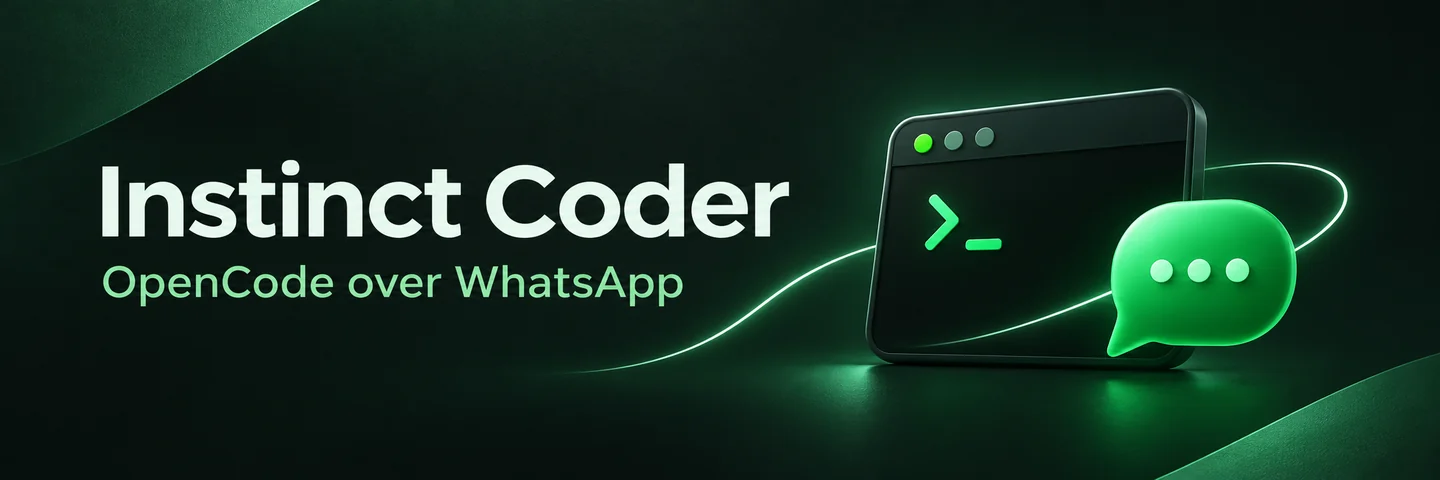
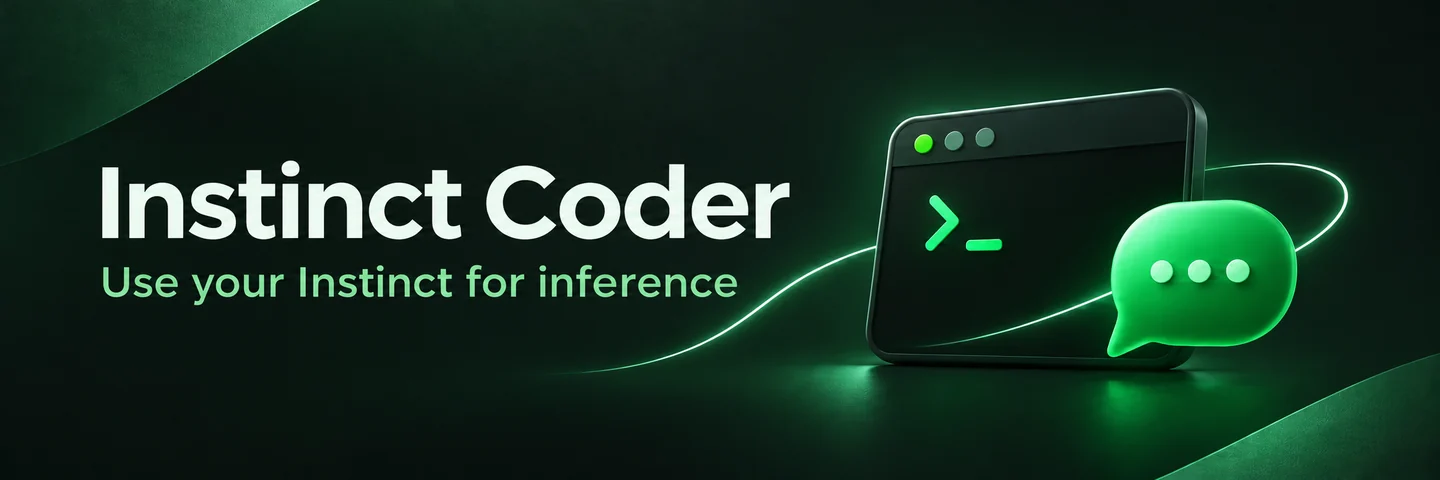
Fit Claude Code instruction files within the WhatsApp budget

diff --git a/src/anthropic.js b/src/anthropic.js
@@ -1,7 +1,25 @@
-import { model } from './protocol.js';
+import { BridgeError, model, prepareTurn } from './protocol.js';
 import { conversation, functionTool, identifier, invalid, openStream, sendJSON, sse, textBlocks, toolCall } from './wire.js';
 
-function messages(input) {
+const instructionReadLines = 48;
+
+function instructionReferences(text, deferred) {
+  if (!deferred || text.length <= deferred.maxChars / 4 ||
+      !text.startsWith('<system-reminder>\nCodebase and user instructions are shown below.') ||
+      !text.trimEnd().endsWith('</system-reminder>')) return text;
+
+  const paths = [...text.matchAll(/^Contents of (\/[\S ]+?|[A-Za-z]:[\\/][\S ]+?) \([^\r\n]+\):$/gm)]
+    .map(([, path]) => path);
+  if (!paths.length) return text;
+  for (const path of paths) deferred.files.add(path);
+  return [
+    'Project and user instruction files supplied by Claude Code:',
+    ...new Set(paths),
+    `Before doing project work, consult the applicable files using the local Read tool in small sections, up to ${instructionReadLines} lines per call. Follow those instructions.`,
+  ].join('\n');
+}
+
+function messages(input, deferred) {
   if (input?.role === 'system') return [{ role: 'system', content: textBlocks(input.content, ['text']) }];
   if (!input || !['user', 'assistant'].includes(input.role)) invalid('Expected a user or assistant message.');
   if (typeof input.content === 'string') return [{ role: input.role, content: input.content }];
@@ -10,10 +28,12 @@ function messages(input) {
   let current = { role: input.role };
   for (const block of input.content) {
     switch (block?.type) {
-      case 'text':
+      case 'text': {
         if (typeof block.text !== 'string') invalid('Expected a text block.');
-        current.content = current.content === undefined ? block.text : `${current.content}\n${block.text}`;
+        const text = input.role === 'user' ? instructionReferences(block.text, deferred) : block.text;
+        current.content = current.content === undefined ? text : `${current.content}\n${text}`;
         break;
+      }
       case 'tool_use': {
         if (input.role !== 'assistant') invalid('Tool calls belong to assistant messages.');
         current.tool_calls ??= [];
@@ -38,12 +58,12 @@ function messages(input) {
   return result;
 }
 
-function prepare(body) {
+function prepare(body, deferred) {
   const request = conversation(body);
   if (!Array.isArray(body.messages)) invalid('messages must be an array.');
   if (body.output_config?.format || body.output_format) invalid('Only plain text responses are supported.');
   if (body.system) request.messages.push({ role: 'system', content: textBlocks(body.system, ['text']) });
-  request.messages.push(...body.messages.flatMap(messages));
+  request.messages.push(...body.messages.flatMap((message) => messages(message, deferred)));
   if (body.tools !== undefined && !Array.isArray(body.tools)) invalid('tools must be an array.');
   request.tools = (body.tools ?? []).filter((tool) => tool?.input_schema).map((tool) =>
     functionTool(tool.name, tool.description, tool.input_schema));
@@ -73,8 +93,21 @@ function tokens(value) {
 }
 
 export const anthropicMessages = {
-  request: prepare,
-  open(response, body) {
+  prepareTurn(body, maxChars) {
+    const request = prepare(body);
+    try {
+      return prepareTurn(request, maxChars);
+    } catch (error) {
+      const choice = request.tool_choice;
+      const canRead = choice !== 'none' && (typeof choice !== 'object' || choice.function.name === 'Read')
+        && request.tools.some((tool) => tool.function.name === 'Read');
+      if (!(error instanceof BridgeError) || error.code !== 'prompt_too_large' || !canRead) throw error;
+      const deferred = { maxChars, files: new Set() };
+      const turn = prepareTurn(prepare(body, deferred), maxChars);
+      return { ...turn, instructionFiles: deferred.files };
+    }
+  },
+  open(response, body, turn) {
     const initial = {
       id: identifier('msg'), type: 'message', role: 'assistant', model,
       content: [], stop_reason: null, stop_sequence: null,
@@ -87,9 +120,13 @@ export const anthropicMessages = {
       emit('message_start', { message: initial });
     }
     const complete = ({ content, tool_calls }) => {
-      const blocks = tool_calls ? tool_calls.map((call) => ({
-        type: 'tool_use', id: call.id, name: call.function.name, input: JSON.parse(call.function.arguments),
-      })) : [{ type: 'text', text: content }];
+      const blocks = tool_calls ? tool_calls.map((call) => {
+        const { name } = call.function;
+        const input = JSON.parse(call.function.arguments);
+        if (name === 'Read' && turn.instructionFiles?.has(input.file_path) &&
+            (input.limit === undefined || input.limit > instructionReadLines)) input.limit = instructionReadLines;
+        return { type: 'tool_use', id: call.id, name, input };
+      }) : [{ type: 'text', text: content }];
       const stop_reason = tool_calls ? 'tool_use' : 'end_turn';
       if (!streaming) {
         return sendJSON(response, 200, { ...initial, content: blocks, stop_reason });

diff --git a/test/gateway.test.js b/test/gateway.test.js
@@ -166,3 +166,40 @@ test('retries a wacli lock before send dispatch and reports streamed provider fa
   assert.equal(events.at(-1).type, 'response.failed');
   assert.equal(events.at(-1).response.error.code, 'invalid_whatsapp_reply');
 });
+
+test('oversized Claude Code instruction reminders become file references without dropping the user message', async (t) => {
+  const { request } = await testGateway(t);
+  const reminder = [
+    '<system-reminder>',
+    'Codebase and user instructions are shown below. Be sure to adhere to these instructions.',
+    '',
+    'Contents of /project with spaces/CLAUDE.md (project instructions, checked into the codebase):',
+    'oversized instruction text\n'.repeat(200),
+    '</system-reminder>',
+  ].join('\n');
+  const body = { messages: [user([
+    { type: 'text', text: reminder },
+    { type: 'text', text: 'INSTRUCTION_BUDGET_FIXTURE. Keep this original user message.' },
+  ])] };
+  const read = { name: 'Read', input_schema: { type: 'object' } };
+  const answer = await request('messages', { ...body, tools: [read] });
+  assert.equal(answer.status, 200);
+  assert.equal((await answer.json()).content[0].text, 'Hello through the bridge.');
+
+  const readAnswer = await request('messages', { tools: [read], messages: [user([
+    { type: 'text', text: reminder },
+    { type: 'text', text: 'READ_INSTRUCTION_BUDGET_FIXTURE. Keep this original user message.' },
+  ])] });
+  assert.equal(readAnswer.status, 200);
+  assert.deepEqual((await readAnswer.json()).content[0].input, {
+    file_path: '/project with spaces/CLAUDE.md', limit: 48,
+  });
+
+  const withoutRead = await request('messages', body);
+  assert.equal(withoutRead.status, 400);
+  assert.match((await withoutRead.json()).error.message, /WhatsApp prompt has/);
+
+  const oversizedUser = await request('messages', { messages: [user('ordinary user text '.repeat(200))], tools: [read] });
+  assert.equal(oversizedUser.status, 400);
+  assert.match((await oversizedUser.json()).error.message, /WhatsApp prompt has/);
+});

diff --git a/src/server.js b/src/server.js
@@ -1,7 +1,7 @@
 import { timingSafeEqual } from 'node:crypto';
 import { createServer } from 'node:http';
 import { pathToFileURL } from 'node:url';
-import { BridgeError, model, prepareTurn } from './protocol.js';
+import { BridgeError, model } from './protocol.js';
 import { whatsappTransport } from './wacli.js';
 
 import { anthropicMessages } from './anthropic.js';
@@ -95,10 +95,10 @@ export function createGateway({ key, maxChars, timeoutMs, complete }) {
         sendJSON(response, 200, anthropicMessages.count(body));
         return;
       }
-      const turn = prepareTurn(adapter.request(body), maxChars);
+      const turn = adapter.prepareTurn(body, maxChars);
       if (queued >= 4) throw new BridgeError(429, 'bridge_busy', 'The WhatsApp queue is full. Try again when it has drained.');
       const signal = AbortSignal.any([AbortSignal.timeout(timeoutMs), disconnect.signal]);
-      exchange = adapter.open(response, body);
+      exchange = adapter.open(response, body, turn);
       if (body.stream === true) heartbeat = setInterval(() => response.write(': waiting for WhatsApp\n\n'), 10_000);
 
       const result = await enqueue(turn, signal);

diff --git a/src/responses.js b/src/responses.js
@@ -1,4 +1,4 @@
-import { BridgeError, model } from './protocol.js';
+import { BridgeError, model, prepareTurn } from './protocol.js';
 import { chatCompletions, conversation, functionTool, identifier, invalid, openStream, sendJSON, sse, textBlocks, timestamp, toolCall } from './wire.js';
 
 const textTypes = ['input_text', 'output_text', 'text'];
@@ -90,7 +90,7 @@ function emitItem(emit, item, output_index) {
 }
 
 export const responses = {
-  request: prepare,
+  prepareTurn: (body, maxChars) => prepareTurn(prepare(body), maxChars),
   open(response, body) {
     const custom = new Set((body.tools ?? []).filter((tool) => tool?.type === 'custom').map((tool) => tool.name));
     const initial = {

diff --git a/src/cli.js b/src/cli.js
@@ -153,6 +153,9 @@ async function clientCommand(client, args, baseURL, key) {
       ANTHROPIC_DEFAULT_SONNET_MODEL: model,
       ANTHROPIC_DEFAULT_OPUS_MODEL: model,
       CLAUDE_CODE_DISABLE_NONESSENTIAL_TRAFFIC: '1',
+      CLAUDE_CODE_MAX_CONTEXT_TOKENS: env.CLAUDE_CODE_MAX_CONTEXT_TOKENS || '10000',
+      // Let the bridge shorten inline project files before applying its character limit.
+      CLAUDE_CODE_DISABLE_UNKNOWN_MODEL_WINDOW_ENFORCEMENT: env.CLAUDE_CODE_DISABLE_UNKNOWN_MODEL_WINDOW_ENFORCEMENT || '1',
       ENABLE_TOOL_SEARCH: 'false',
     });
     const tools = args.some((arg) => arg === '--tools' || arg.startsWith('--tools='))

diff --git a/src/wire.js b/src/wire.js
@@ -1,5 +1,5 @@
 import { randomUUID } from 'node:crypto';
-import { BridgeError, model } from './protocol.js';
+import { BridgeError, model, prepareTurn } from './protocol.js';
 
 export const identifier = (prefix) => `${prefix}_${randomUUID().replaceAll('-', '')}`;
 export const timestamp = () => Math.floor(Date.now() / 1000);
@@ -51,7 +51,7 @@ export function sse(response, value, event) {
 }
 
 export const chatCompletions = {
-  request: (body) => body,
+  prepareTurn,
   open(response, body) {
     const metadata = { id: identifier('chatcmpl'), model, created: timestamp() };
     if (body.stream !== true) {

diff --git a/README.md b/README.md
@@ -1,6 +1,6 @@
 # Instinct Coder
 
-![Instinct Coder cover showing a terminal connected to a chat bubble](docs/cover.webp)
+![Instinct Coder. Use your Instinct for inference.](docs/cover.webp)
 
 [![Platforms](docs/badges/platforms.svg)](#get-started)
 [![OpenCode](docs/badges/opencode.svg)](https://github.com/anomalyco/opencode/releases/tag/v1.19.6)
@@ -31,7 +31,15 @@ On your phone, open **WhatsApp → Linked devices → Link a device**, then scan
 
 ## Start coding
 
-In any project folder, run `~/.local/bin/instinct-coder`. It starts the bridge and opens OpenCode with Instinct selected. OpenCode asks before edits or shell commands. Quit OpenCode to stop the bridge.
+### OpenCode
+
+From your project folder, launch OpenCode with Instinct selected.
+
+```sh
+~/.local/bin/instinct-coder
+```
+
+The launcher starts the WhatsApp bridge. OpenCode asks before edits or shell commands. Quit OpenCode to stop the bridge.
 
 ### Codex CLI and Claude Code
 
@@ -42,7 +50,7 @@ Install the client you want to use, then run one of these commands from your pro
 ~/.local/bin/instinct-coder claude
 ```
 
-Both use the same linked WhatsApp account for text and local tool calls. Claude Code support is experimental and starts with the file and shell tools that fit WhatsApp's message limit. Short sessions work best.
+Both use the same linked WhatsApp account for text and local tool calls. Claude Code support is experimental. For oversized project instruction reminders, Claude can read the linked files in sections. Short sessions work best.
 
 The [bill splitter](examples/bill-splitter/index.html) was built in a live OpenCode session using Instinct tool calls over WhatsApp.
 
